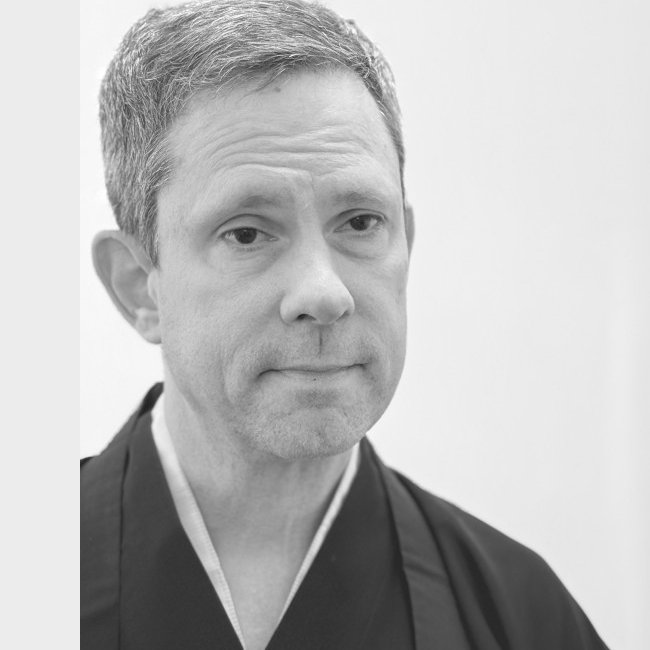
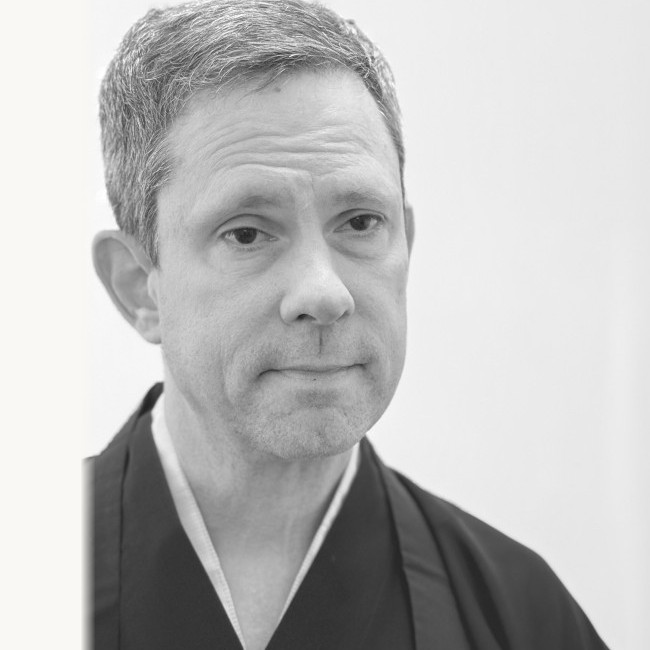
Update coaching bio, add free initial meeting, rename Lectures to Texts, remove Sesshin filter, fix portrait background blend
- Rewrote coaching first paragraph with updated experience
- Added 'The initial meeting and discussion are free' to pricing
- Renamed Lectures filter to Texts on teachings page
- Removed Sesshin filter button
- Fixed portrait left-edge background to match page color

Claude-Session: https://claude.ai/code/session_01LNcX3QjUuesQKfpRGRUnKQ

Changed region(s): [[0.1231, 0.7077, 0.1538, 1.0]]

diff --git a/talks.html b/talks.html
@@ -49,8 +49,7 @@
       <div class="filter-buttons reveal">
         <button class="filter-btn active" data-filter="all">All</button>
         <button class="filter-btn" data-filter="dharma-talk">Dharma Talks</button>
-        <button class="filter-btn" data-filter="lecture">Lectures</button>
-        <button class="filter-btn" data-filter="sesshin">Sesshin</button>
+        <button class="filter-btn" data-filter="text">Texts</button>
       </div>
 
       <div class="talks-list reveal">
@@ -64,10 +63,10 @@
           <span class="talk-title">Leading with Not-Knowing</span>
           <span class="talk-tag">Dharma Talk</span>
         </a>
-        <a href="https://www.sfzc.org/teachings/dharma-talks" target="_blank" class="talk-item" data-category="lecture">
+        <a href="https://www.sfzc.org/teachings/dharma-talks" target="_blank" class="talk-item" data-category="text">
           <span class="talk-date">Apr 2024</span>
           <span class="talk-title">The Genjo Koan in Everyday Life</span>
-          <span class="talk-tag">Lecture</span>
+          <span class="talk-tag">Text</span>
         </a>
         <a href="https://www.sfzc.org/teachings/dharma-talks" target="_blank" class="talk-item" data-category="sesshin">
           <span class="talk-date">Jan 2024</span>
@@ -79,10 +78,10 @@
           <span class="talk-title">Service as Practice</span>
           <span class="talk-tag">Dharma Talk</span>
         </a>
-        <a href="https://www.sfzc.org/teachings/dharma-talks" target="_blank" class="talk-item" data-category="lecture">
+        <a href="https://www.sfzc.org/teachings/dharma-talks" target="_blank" class="talk-item" data-category="text">
           <span class="talk-date">May 2023</span>
           <span class="talk-title">The Tenzo's Instruction</span>
-          <span class="talk-tag">Lecture</span>
+          <span class="talk-tag">Text</span>
         </a>
         <a href="https://www.sfzc.org/teachings/dharma-talks" target="_blank" class="talk-item" data-category="dharma-talk">
           <span class="talk-date">Feb 2023</span>

diff --git a/coaching.html b/coaching.html
@@ -44,7 +44,7 @@
   <!-- Coaching Content -->
   <section class="content-section">
     <div class="content-narrow reveal">
-      <p>My coaching draws on fifteen years of Zen practice, leadership experience as President and CFO of San Francisco Zen Center, and an earlier career in technology and finance. I work with individuals navigating leadership challenges, career transitions, and the deeper questions that surface when life demands more than expertise alone can answer.</p>
+      <p>My coaching draws on twenty years of Zen practice, ordained priesthood, and progressive leadership roles within San Francisco Zen Center—serving as temple director, CFO, and now President. My earlier careers in technology and finance, combined with navigating the deeper questions that arise in sustained practice, inform how I work with individuals facing leadership challenges, career transitions, and the places where expertise alone falls short.</p>
       <p>Whether you're working through a specific problem or looking for a more structured process, I offer two approaches — and we'll find the right fit together.</p>
 
       <div class="offering">
@@ -63,6 +63,7 @@
         <div class="pricing-range">$50 – $175</div>
         <p class="pricing-note">Per session, sliding scale. Choose what fits your situation.</p>
         <p class="pricing-note">Minimum commitment of three sessions.</p>
+        <p class="pricing-note">The initial meeting and discussion are free.</p>
       </div>
 
       <a href="mailto:mail@michaelmccord.us" class="cta-link">Get in touch to begin &rarr;</a>
